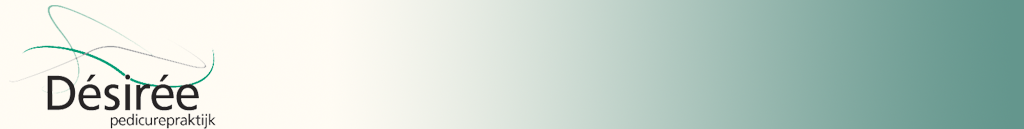
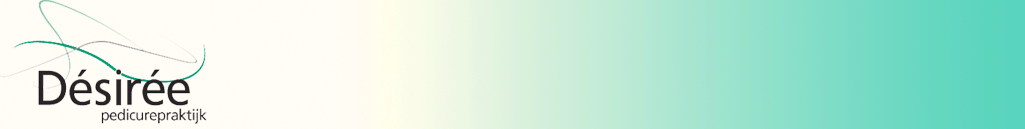
Nieuwe ontwerp verwerkt.
Verwerkt vanuit voor thomas ontwerp.

diff --git a/style/style.css b/style/style.css
@@ -29,7 +29,7 @@ div#wrapper{
 div#header{
     background-image: url('afbeeldingen/header.png');
     background-repeat: no-repeat;
-    margin-bottom: 10px;
+    margin-bottom: 13px;
     height: 129px;
     background-color: lightblue;
     z-index: 1;
@@ -41,45 +41,51 @@ div#contact-info-header{
     z-index: 10;
 }
 div#menu{
-    height: 50px;
-    background-color: #aab4c0;
+    height: 35px;
+    background-color: #686868;
     margin-bottom: 10px;
+    /* FIX FOR TO MANY MENU ITEMS HERE. */
+    overflow: hidden;
+    /* END OF FIX */
 }
-div#menu:first-child{
-    margin-left: 5px !important; 
+div#menu > div.menuitem:first-child{
+    margin-left: 2px !important; 
 }
 div.menuitem{
+    background-image: url('afbeeldingen/menuitem.png');
     float: left;
     color: black;
-    height: 45px;
-    font-size: 30px;
+    height: 31px;
+    font-size: 15px;
     padding-top: 5px;
-    margin-left: 10px;
+    padding-left: 10px;
+    margin-left: 13px;
+    width: 107px;
 }
 div.menuitem:hover,
 div.menuactive{
-    background-color: #b8cdd6;
+   background-image: url('afbeeldingen/menuitem_hover.png');
     color: #06a583;
 }
 
 div#contentwrapper{
    width: 1024px;
    margin-bottom: 10px;
-   background-image: url('afbeeldingen/sitebg_false.png');
+   background-image: url('afbeeldingen/background.png');
    background-repeat: no-repeat;
    min-height: 645px;
 }
 div#content-left{
-    width: 200px;
+    width: 120px;
     float: left;
-    margin-right: 50px;
+    margin-right: 120px;
     min-height: 300px;
-    font-size: 26px;
 }
 img.sidebannerstripe{
     width: 191px;
 
 }
+/*
 img.sidebartop{
     position: absolute;
     top: 0px;
@@ -87,12 +93,22 @@ img.sidebartop{
 img.sidebarbottom{
     position: absolute;
     top: 43px;
+}*/
+div.sidebar,
+div.sidebar_active{
+    position: relative;
+    width: 117px;
+    height: 44px;
+    display: block;
+    margin-bottom: 5px;
 }
 div.sidebar{
-    position: relative;
-    width: 191px;
-    height: 50px;
-    display: block;
+  background-image: url('afbeeldingen/sidemenu.png');  
+}
+div.sidebar:hover,
+div.sidebaractive{
+    background-image: url('afbeeldingen/sidemenu_hover.png');
+    
 }
 div.innersidebar{
     position: relative;

diff --git a/index.php b/index.php
@@ -75,29 +75,27 @@ require_once('includes/bootstrap.php');
             <div id="contentwrapper">
                 <div id="content-left">
                     <div class="sidebar">
-                        <img src="style/afbeeldingen/sidebanner_stripe.png" class="sidebannerstripe sidebartop" alt="" />
                         <div class="innersidebar">
                             Sub menu item.
                         </div>
-                        <img src="style/afbeeldingen/sidebanner_stripe.png" class="sidebannerstripe sidebarbottom" alt="" />
                     </div>
                     <div class="sidebar">
                         <div class="innersidebar">
                             Sub menu item.
                         </div>
-                        <img src="style/afbeeldingen/sidebanner_stripe.png" class="sidebannerstripe sidebarbottom" alt="" />
+                        
                     </div>
                     <div class="sidebar">
                         <div class="innersidebar">
                             Sub menu item.
                         </div>
-                        <img src="style/afbeeldingen/sidebanner_stripe.png" class="sidebannerstripe sidebarbottom" alt="" />
+                        
                     </div>
                     <div class="sidebar">
                         <div class="innersidebar">
                             Sub menu item.
                         </div>
-                        <img src="style/afbeeldingen/sidebanner_stripe.png" class="sidebannerstripe sidebarbottom" alt="" />
+                      
                     </div>
                 </div>
                 <div id="content-right">
